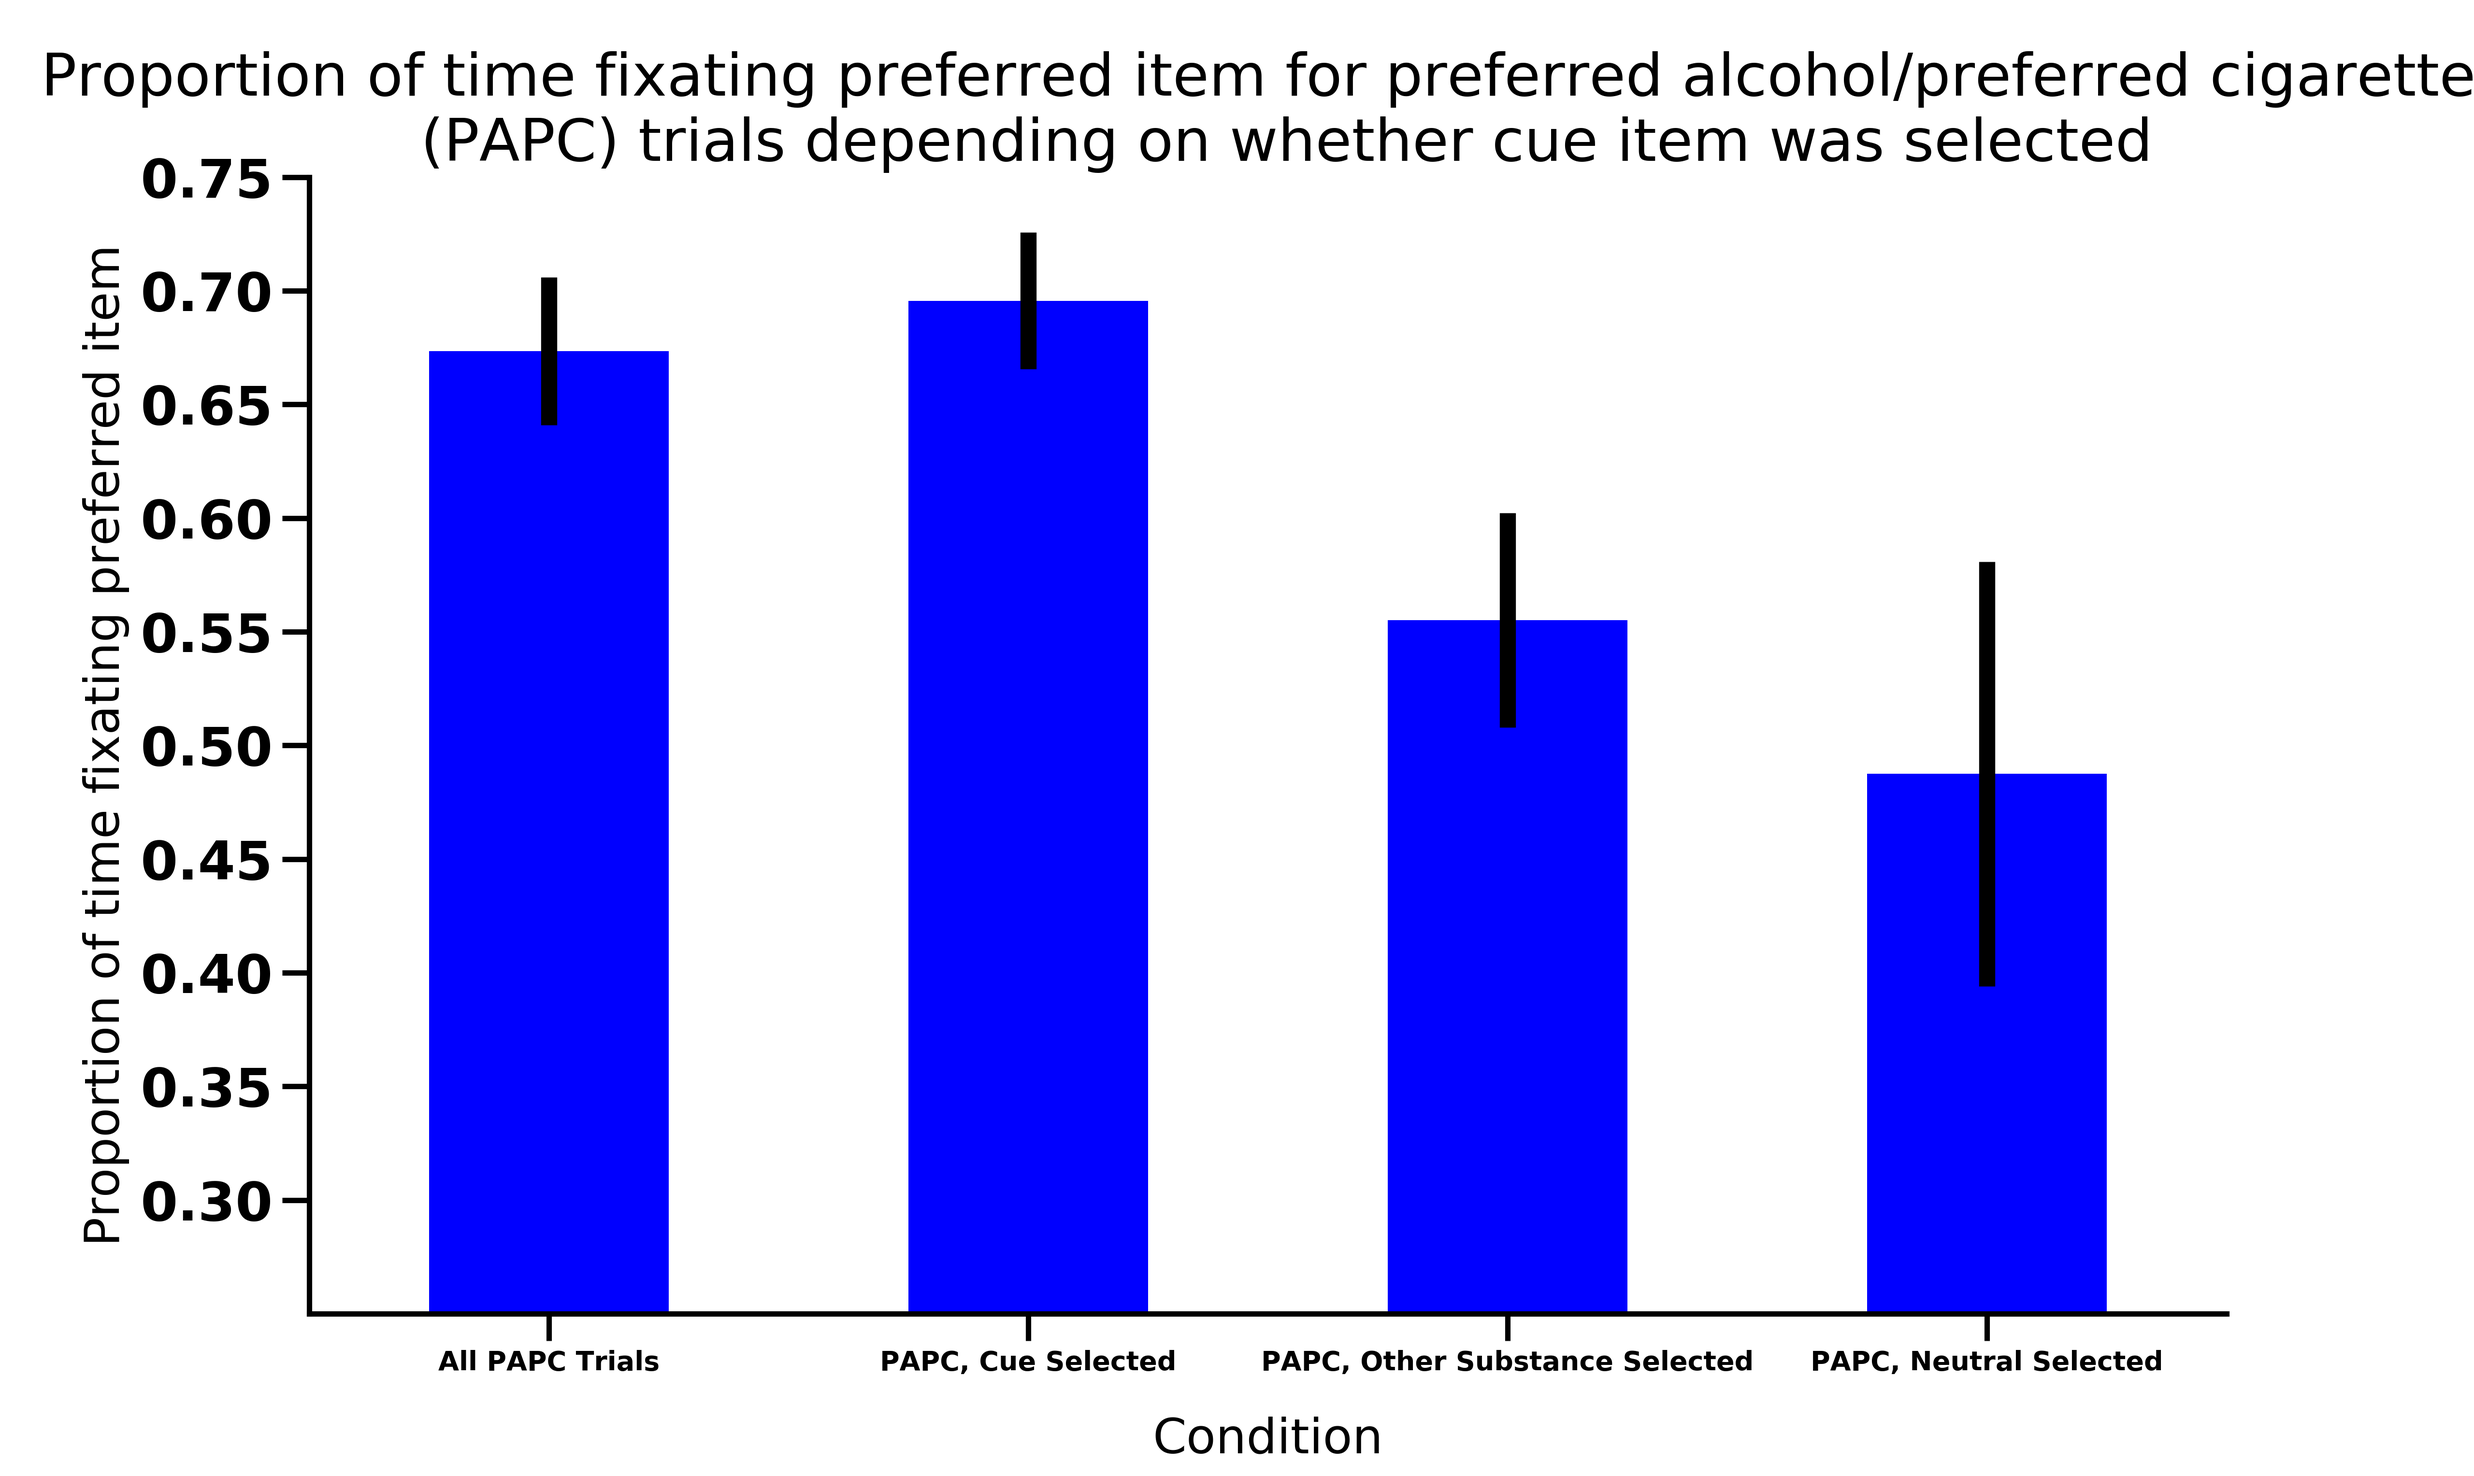
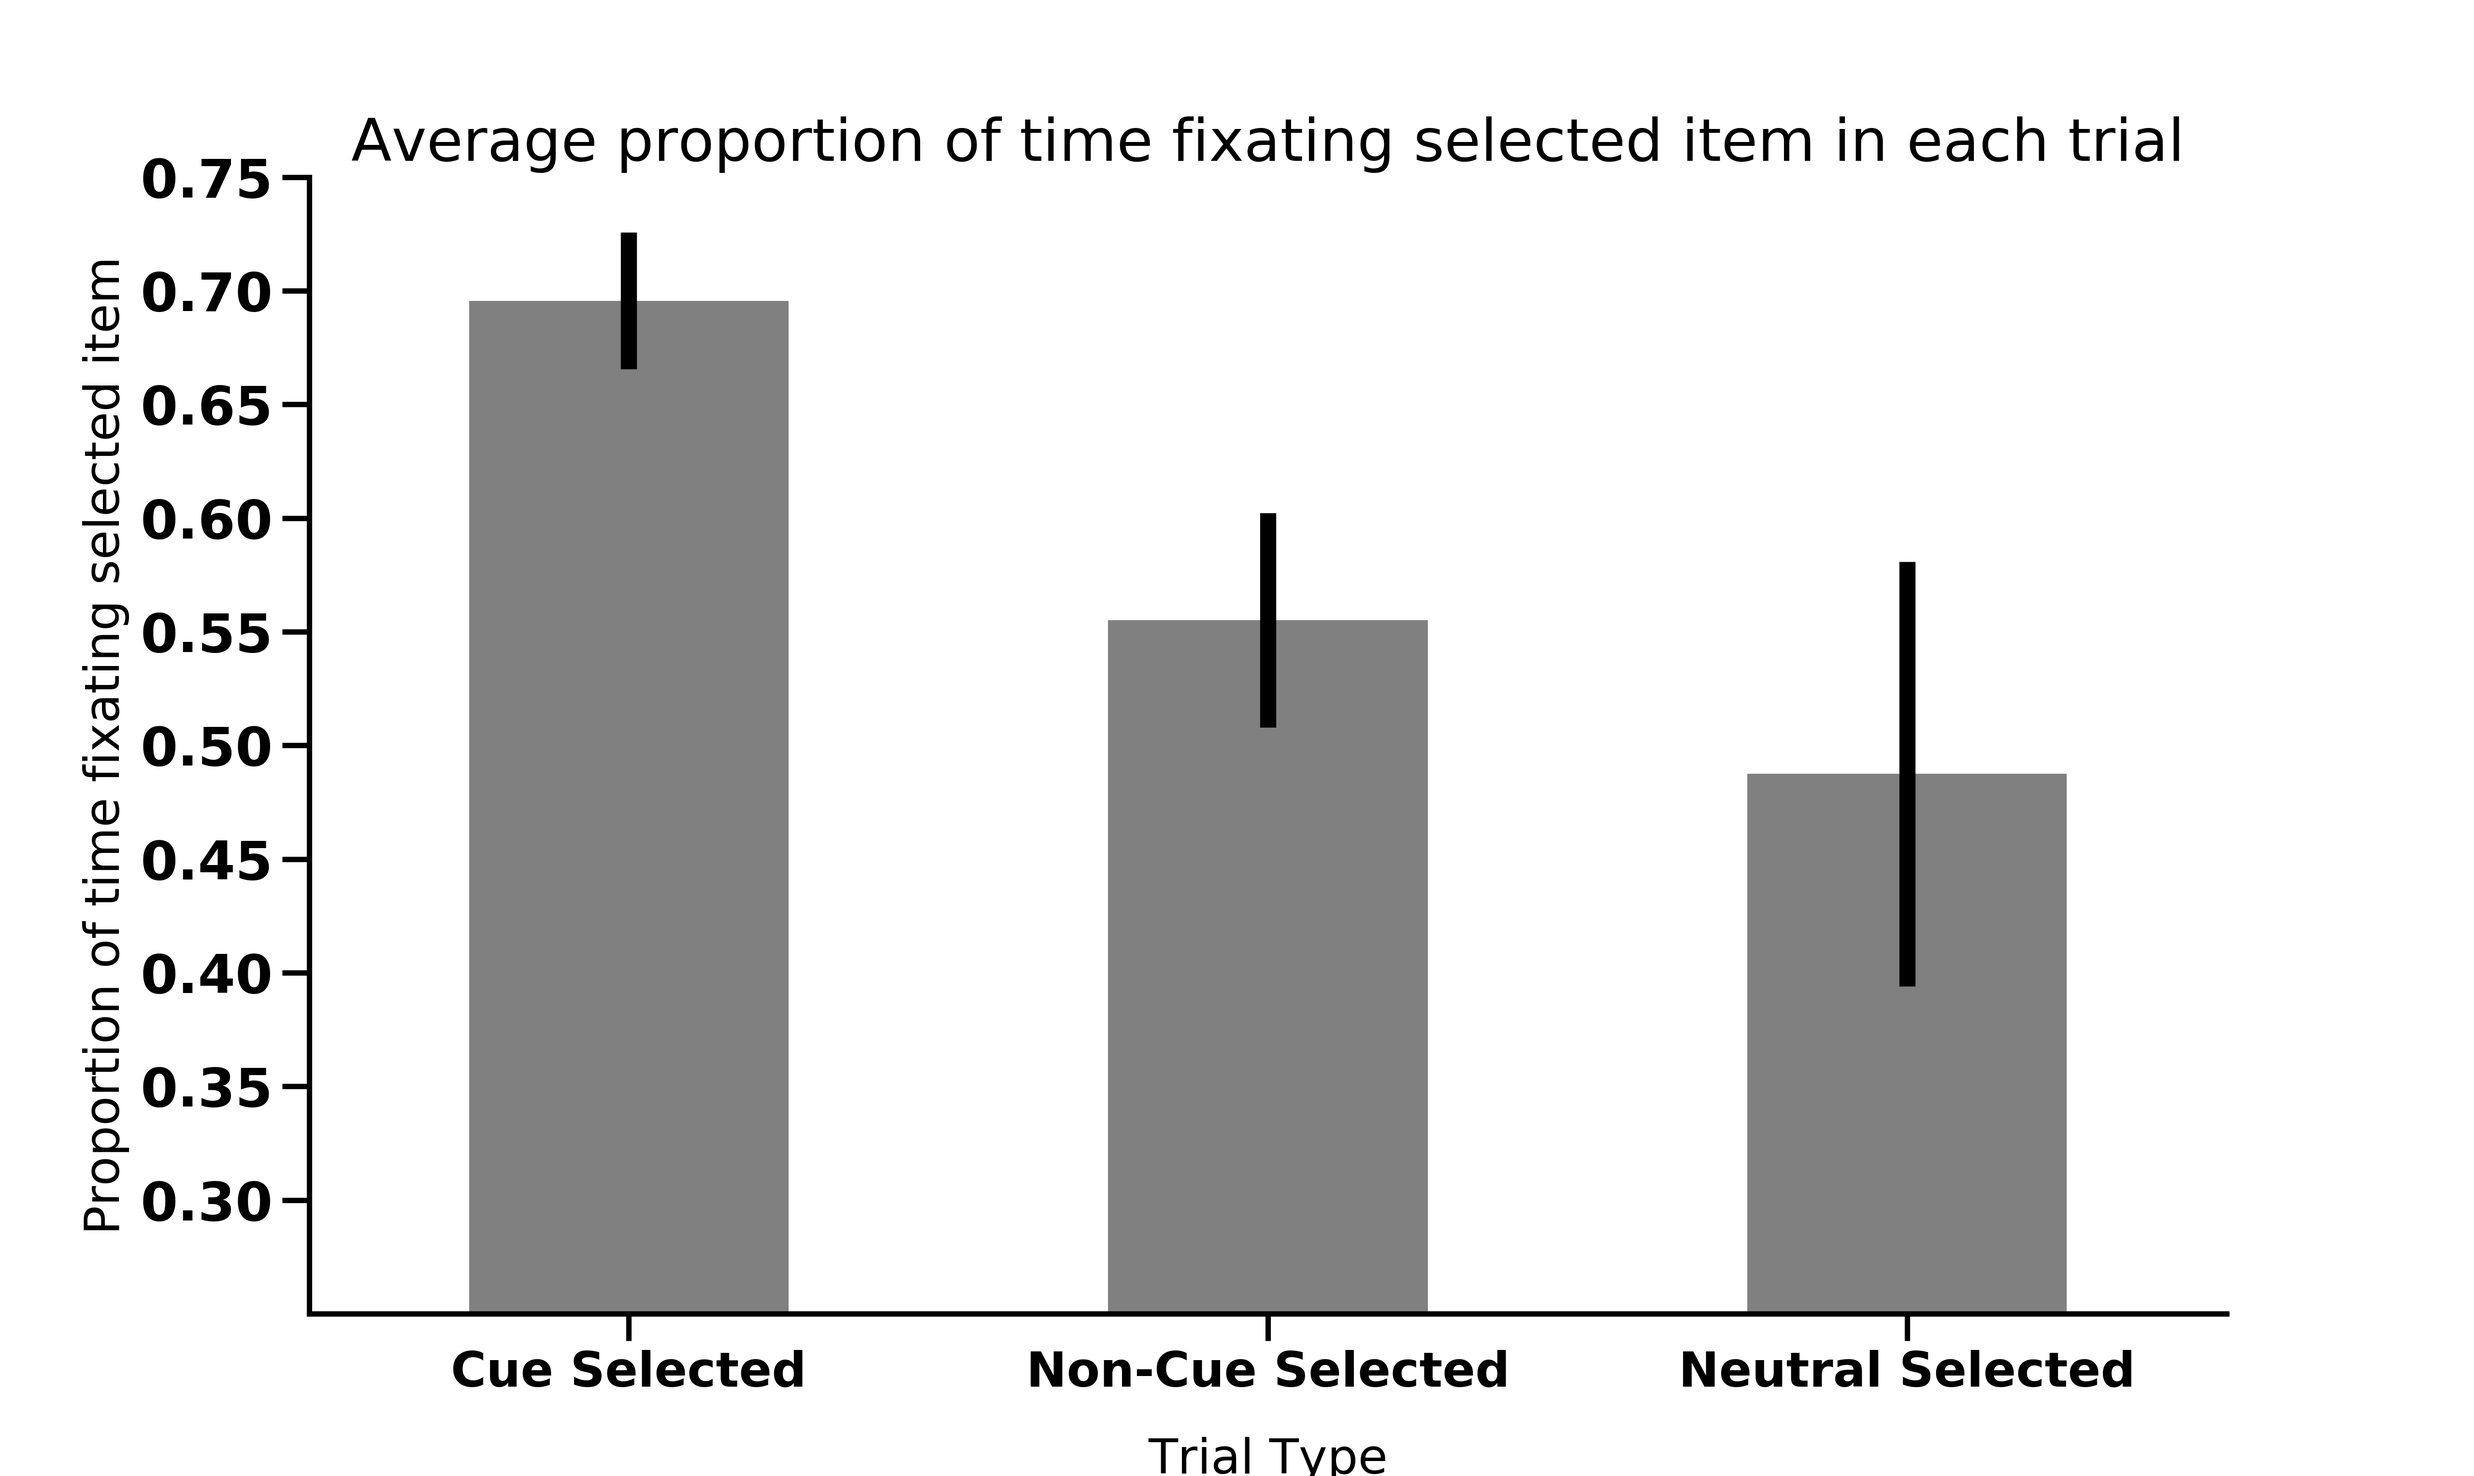
calculating velocity, but something is off because it's not to the right scale. tried using a denominator of 0.001 (to put it on a second scale) but it's way too much... must consult with JH

diff --git a/cret_plot.py b/cret_plot.py
@@ -21,7 +21,7 @@ db = shelve.open(shelvepath+'data');
 ids=['cret01','cret03','cret04','cret05','cret06','cret07','cret08','cret09','cret10','cret11'];
 
 #set parameters for plots
-matplotlib.rcParams['ytick.labelsize']=20; matplotlib.rcParams['xtick.labelsize']=10;
+matplotlib.rcParams['ytick.labelsize']=20; matplotlib.rcParams['xtick.labelsize']=18;
 matplotlib.rcParams['xtick.major.width']=2.0; matplotlib.rcParams['ytick.major.width']=2.0;
 matplotlib.rcParams['xtick.major.size']=10.0; matplotlib.rcParams['ytick.major.size']=10.0;
 matplotlib.rcParams['hatch.linewidth'] = 9.0; #set the hatch width to larger than the default case
@@ -34,26 +34,26 @@ matplotlib.pyplot.rc('font',weight='bold');
 
 ##Plot proportion for PAPC trials based on whetehr they chose the cue or not item for items when they chose alohol or cigarette
 fig = figure(figsize = (12.8,7.64)); ax1=gca(); #grid(True);
-ax1.set_ylim(0.25,0.75); ax1.set_yticks(arange(0.30,0.751,0.05)); ax1.set_xlim([0.7,3.1]); ax1.set_xticks([1,1.6,2.2,2.8]);
-ax1.set_ylabel('Proportion of time fixating preferred item',size=18); ax1.set_xlabel('Condition',size=18,labelpad=15);
-ax1.set_xticklabels(['All PAPC Trials','PAPC, Cue Selected','PAPC, Other Substance Selected','PAPC, Neutral Selected']);
-colors=['blue'];
-ax1.bar(1.0,db['%s_%s_mean_perc_time_at_pref'%('agg','high_pref')],color=colors[0],width=0.3);
-ax1.errorbar(1.0,db['%s_%s_mean_perc_time_at_pref'%('agg','high_pref')],
-			 yerr=[[db['%s_%s_bs_sems_perc_time_at_pref'%('agg','high_pref')]],[db['%s_%s_bs_sems_perc_time_at_pref'%('agg','high_pref')]]],color='black',lw=6.0);
-ax1.bar(1.6,db['%s_%s_selected_%s_mean_perc_time_at_pref'%('agg','high_pref','cue')],color=colors[0],width=0.3);
-ax1.errorbar(1.6,db['%s_%s_selected_%s_mean_perc_time_at_pref'%('agg','high_pref','cue')],
+ax1.set_ylim(0.25,0.75); ax1.set_yticks(arange(0.30,0.751,0.05)); ax1.set_xlim([0.7,2.5]); ax1.set_xticks([1,1.6,2.2]); #,2.8]); ax1.set_xlim([0.7,3.1]);
+ax1.set_ylabel('Proportion of time fixating selected item',size=18); ax1.set_xlabel('Trial Type',size=18,labelpad=15);
+ax1.set_xticklabels(['Cue Selected','Non-Cue Selected','Neutral Selected']); #'All PAPC Trials',
+colors=['gray'];
+# ax1.bar(1.0,db['%s_%s_mean_perc_time_at_pref'%('agg','high_pref')],color=colors[0],width=0.3);
+# ax1.errorbar(1.0,db['%s_%s_mean_perc_time_at_pref'%('agg','high_pref')],
+# 			 yerr=[[db['%s_%s_bs_sems_perc_time_at_pref'%('agg','high_pref')]],[db['%s_%s_bs_sems_perc_time_at_pref'%('agg','high_pref')]]],color='black',lw=6.0);
+ax1.bar(1.0,db['%s_%s_selected_%s_mean_perc_time_at_pref'%('agg','high_pref','cue')],color=colors[0],width=0.3);
+ax1.errorbar(1.0,db['%s_%s_selected_%s_mean_perc_time_at_pref'%('agg','high_pref','cue')],
 			 yerr=[[db['%s_%s_selected_%s_bs_sems_perc_time_at_pref'%('agg','high_pref','cue')]],[db['%s_%s_selected_%s_bs_sems_perc_time_at_pref'%('agg','high_pref','cue')]]],color='black',lw=6.0);
-ax1.bar(2.2,db['%s_%s_selected_%s_mean_perc_time_at_pref'%('agg','high_pref','not_cue')],color=colors[0],width=0.3);
-ax1.errorbar(2.2,db['%s_%s_selected_%s_mean_perc_time_at_pref'%('agg','high_pref','not_cue')],
+ax1.bar(1.6,db['%s_%s_selected_%s_mean_perc_time_at_pref'%('agg','high_pref','not_cue')],color=colors[0],width=0.3);
+ax1.errorbar(1.6,db['%s_%s_selected_%s_mean_perc_time_at_pref'%('agg','high_pref','not_cue')],
 			 yerr=[[db['%s_%s_selected_%s_bs_sems_perc_time_at_pref'%('agg','high_pref','not_cue')]],[db['%s_%s_selected_%s_bs_sems_perc_time_at_pref'%('agg','high_pref','not_cue')]]],color='black',lw=6.0);
-ax1.bar(2.8,db['%s_high_pref_%s_mean_perc_time_at_pref'%('agg','neutral')],color=colors[0],width=0.3);
-ax1.errorbar(2.8,db['%s_high_pref_%s_mean_perc_time_at_pref'%('agg','neutral')],
+ax1.bar(2.2,db['%s_high_pref_%s_mean_perc_time_at_pref'%('agg','neutral')],color=colors[0],width=0.3);
+ax1.errorbar(2.2,db['%s_high_pref_%s_mean_perc_time_at_pref'%('agg','neutral')],
 			 yerr=[[db['%s_high_pref_%s_bs_sems_perc_time_at_pref'%('agg','neutral')]],[db['%s_high_pref_%s_bs_sems_perc_time_at_pref'%('agg','neutral')]]],color='black',lw=6.0);
 ax1.spines['right'].set_visible(False); ax1.spines['top'].set_visible(False);
 ax1.spines['bottom'].set_linewidth(2.0); ax1.spines['left'].set_linewidth(2.0);
 ax1.yaxis.set_ticks_position('left'); ax1.xaxis.set_ticks_position('bottom');
-title('Proportion of time fixating preferred item for preferred alcohol/preferred cigarette \n  (PAPC) trials depending on whether cue item was selected', fontsize = 22);
+title('Average proportion of time fixating selected item in each trial', fontsize = 22);
 #save the labeled figure as a .png	
 filename = 'cue_vs_not_cue_percentage_time_fixate_preferred_item_labeled';
 savefig(savepath+filename+'.png',dpi=400);
@@ -111,26 +111,26 @@ show();
 
 ##Plot proportion for PAPC trials based on whetehr they chose the cue or not item for items when they chose alohol or cigarette
 fig = figure(figsize = (12.8,7.64)); ax1=gca(); #grid(True);
-ax1.set_ylim(0.25,0.75); ax1.set_yticks(arange(0.30,0.751,0.05)); ax1.set_xlim([0.7,3.1]); ax1.set_xticks([1,1.6,2.2,2.8]);
-ax1.set_ylabel('Proportion of trials last fixated item was selected',size=18); ax1.set_xlabel('Condition',size=18,labelpad=15);
-ax1.set_xticklabels(['All PAPC Trials','PAPC, Cue Selected','PAPC, Other Substance Selected','PAPC, Neutral Selected']);
+ax1.set_ylim(0.25,0.75); ax1.set_yticks(arange(0.30,0.751,0.05)); ax1.set_xlim([0.7,2.5]); ax1.set_xticks([1,1.6,2.2]); #,2.8]); ax1.set_xlim([0.7,3.1]);
+ax1.set_ylabel('Proportion of trials last fixated item was selected',size=18); ax1.set_xlabel('Trial Type',size=18,labelpad=15);
+ax1.set_xticklabels(['Cue Selected','Non-Cue Selected','Neutral Selected']); #'All PAPC Trials',
 colors=['green'];
-ax1.bar(1.0,db['%s_%s_mean_prop_last_fixated_item'%('agg','high_pref')],color=colors[0],width=0.3);
-ax1.errorbar(1.0,db['%s_%s_mean_prop_last_fixated_item'%('agg','high_pref')],
-			 yerr=[[db['%s_%s_bs_sems_prop_last_fixated_item'%('agg','high_pref')]],[db['%s_%s_bs_sems_prop_last_fixated_item'%('agg','high_pref')]]],color='black',lw=6.0);
-ax1.bar(1.6,db['%s_%s_selected_%s_mean_prop_last_fixated_item'%('agg','high_pref','cue')],color=colors[0],width=0.3);
-ax1.errorbar(1.6,db['%s_%s_selected_%s_mean_prop_last_fixated_item'%('agg','high_pref','cue')],
+# ax1.bar(1.0,db['%s_%s_mean_prop_last_fixated_item'%('agg','high_pref')],color=colors[0],width=0.3);
+# ax1.errorbar(1.0,db['%s_%s_mean_prop_last_fixated_item'%('agg','high_pref')],
+# 			 yerr=[[db['%s_%s_bs_sems_prop_last_fixated_item'%('agg','high_pref')]],[db['%s_%s_bs_sems_prop_last_fixated_item'%('agg','high_pref')]]],color='black',lw=6.0);
+ax1.bar(1.0,db['%s_%s_selected_%s_mean_prop_last_fixated_item'%('agg','high_pref','cue')],color=colors[0],width=0.3);
+ax1.errorbar(1.0,db['%s_%s_selected_%s_mean_prop_last_fixated_item'%('agg','high_pref','cue')],
 			 yerr=[[db['%s_%s_selected_%s_bs_sems_prop_last_fixated_item'%('agg','high_pref','cue')]],[db['%s_%s_selected_%s_bs_sems_prop_last_fixated_item'%('agg','high_pref','cue')]]],color='black',lw=6.0);
-ax1.bar(2.2,db['%s_%s_selected_%s_mean_prop_last_fixated_item'%('agg','high_pref','not_cue')],color=colors[0],width=0.3);
-ax1.errorbar(2.2,db['%s_%s_selected_%s_mean_prop_last_fixated_item'%('agg','high_pref','not_cue')],
+ax1.bar(1.6,db['%s_%s_selected_%s_mean_prop_last_fixated_item'%('agg','high_pref','not_cue')],color=colors[0],width=0.3);
+ax1.errorbar(1.6,db['%s_%s_selected_%s_mean_prop_last_fixated_item'%('agg','high_pref','not_cue')],
 			 yerr=[[db['%s_%s_selected_%s_bs_sems_prop_last_fixated_item'%('agg','high_pref','not_cue')]],[db['%s_%s_selected_%s_bs_sems_prop_last_fixated_item'%('agg','high_pref','not_cue')]]],color='black',lw=6.0);
-ax1.bar(2.8,db['%s_high_pref_%s_mean_prop_last_fixated_item'%('agg','neutral')],color=colors[0],width=0.3);
-ax1.errorbar(2.8,db['%s_high_pref_%s_mean_prop_last_fixated_item'%('agg','neutral')],
+ax1.bar(2.2,db['%s_high_pref_%s_mean_prop_last_fixated_item'%('agg','neutral')],color=colors[0],width=0.3);
+ax1.errorbar(2.2,db['%s_high_pref_%s_mean_prop_last_fixated_item'%('agg','neutral')],
 			 yerr=[[db['%s_high_pref_%s_bs_sems_prop_last_fixated_item'%('agg','neutral')]],[db['%s_high_pref_%s_bs_sems_prop_last_fixated_item'%('agg','neutral')]]],color='black',lw=6.0);
 ax1.spines['right'].set_visible(False); ax1.spines['top'].set_visible(False);
 ax1.spines['bottom'].set_linewidth(2.0); ax1.spines['left'].set_linewidth(2.0);
 ax1.yaxis.set_ticks_position('left'); ax1.xaxis.set_ticks_position('bottom');
-title('Proportion of trials fixating the selected item last\n for preferred alcohol/preferred cigarette (PAPC) trials depending on\n whether cue item was selected', fontsize = 22);
+title('Average proportion of trials the selected item \n was the last item fixated', fontsize = 22);
 #save the labeled figure as a .png	
 filename = 'cue_vs_not_cue_percentage_trials_last_fixated_item_labeled';
 savefig(savepath+filename+'.png',dpi=400);

diff --git a/cret_analysis.py b/cret_analysis.py
@@ -15,9 +15,9 @@ import matplotlib.lines as mlines
 ## Specify some universal parameters ##
 ############################################
 
-datapath = '/Users/jameswilmott/Documents/MATLAB/data/CRET/'; #'/Users/james/Documents/MATLAB/data/CRET/'; #
-savepath =  '/Users/jameswilmott/Documents/Python/CRET/data/';  #'/Users/james/Documents/Python/CRET/data/'; # 
-shelvepath =  '/Users/jameswilmott/Documents/Python/CRET/data/';  #'/Users/james/Documents/Python/CRET/data/'; # 
+datapath = '/Users/james/Documents/MATLAB/data/CRET/'; #'/Users/jameswilmott/Documents/MATLAB/data/CRET/'; #
+savepath =  '/Users/james/Documents/Python/CRET/data/'; # '/Users/jameswilmott/Documents/Python/CRET/data/';  #
+shelvepath =  '/Users/james/Documents/Python/CRET/data/'; # '/Users/jameswilmott/Documents/Python/CRET/data/';  #
 
 subject_data = shelve.open(shelvepath+'data');
 
@@ -325,7 +325,7 @@ def computeTemporalGazeProfile(blocks, id = 'agg'):
 	#now run this analysis for the trials where the subject selected the cue item, as defined above, vs the non cued item 		
 	fig = figure(); ax1 = gca();
 	ax1.set_ylim(0.0, 1.0); ax1.set_yticks(arange(0,1.01,0.1)); ax1.set_xlim([0,1000]);
-	ax1.set_ylabel('Likelihood of fixating preferred item',size=18); ax1.set_xlabel('Time with respect to decision, ms',size=18,labelpad=15);
+	ax1.set_ylabel('Likelihood of fixating selected item',size=18); ax1.set_xlabel('Time with respect to decision, ms',size=18,labelpad=11);
 	ax1.set_xticks([0,200,400,600,800,1000]);
 	ax1.set_xticklabels(['-1000','-800','-600','-400','-200','0']);
 	colors = ['red','blue']; alphas = [1.0, 1.0]; legend_lines = [];		count = 0;
@@ -361,9 +361,9 @@ def computeTemporalGazeProfile(blocks, id = 'agg'):
 	# legend_lines.append(mlines.Line2D([],[],color='black',lw=6,alpha = a, label='chose neutral'));		
 
 	for cue_or_not, cue_name, c, a in zip([1,0],['cue','not_cue'], colors, alphas):
-		#not sure whether the appropriate way to calculate this it to take the namean of the means for each subject, or else to
+		#not sure whether the appropriate way to calculate this it to take the nanmean of the means for each subject, or else to
 		#treat all subjects equally as one 'subject' and aggregate across all data points. Have to figure this out still
-		#for now, using the namean of the mans across each subject
+		#for now, using the nanmean of the means across each subject
 		gaze_array = zeros(time_duration/time_bin_spacing);
 		counts = zeros(shape(gaze_array));	
 		subject_means_array = [[] for i in range(1000)]; #use this to store each individual subjects' mean for each time point
@@ -557,7 +557,19 @@ class trial(object):
 		self.eyeY = array(eyeY); #[::sampStep];
 		self.p_size = array(pSize); #[::sampStep];
 		
-		self.get_ET_data(); #call this method... see if it works
+		#find when the subject was saccading in each trial
+		#first use a differentiation method to define the velocity (eye position change/time change) for each time point in the trial
+		timeChange = diff(self.sample_times); #difference in time, in seconds 0.001; #
+		xChange = -diff(self.eyeX);
+		yChange = -diff(self.eyeY);
+		totalChange = sqrt(xChange**2+yChange**2);
+		temp = totalChange/timeChange; #calculate the velocity for each time point
+		self.velocity = insert(temp,0,0); #insert a 0 at the beginning of the array for the first time point
+		1/0;
+		
+		
+		
+		self.get_ET_data(); #call this method defined below
 		
 	#define a function that takes a trial object and determines the proportion of time was looking at each item
 	#this should find arrays of length(trial time) for each item/location, marking a 0 if not looking at that loc
